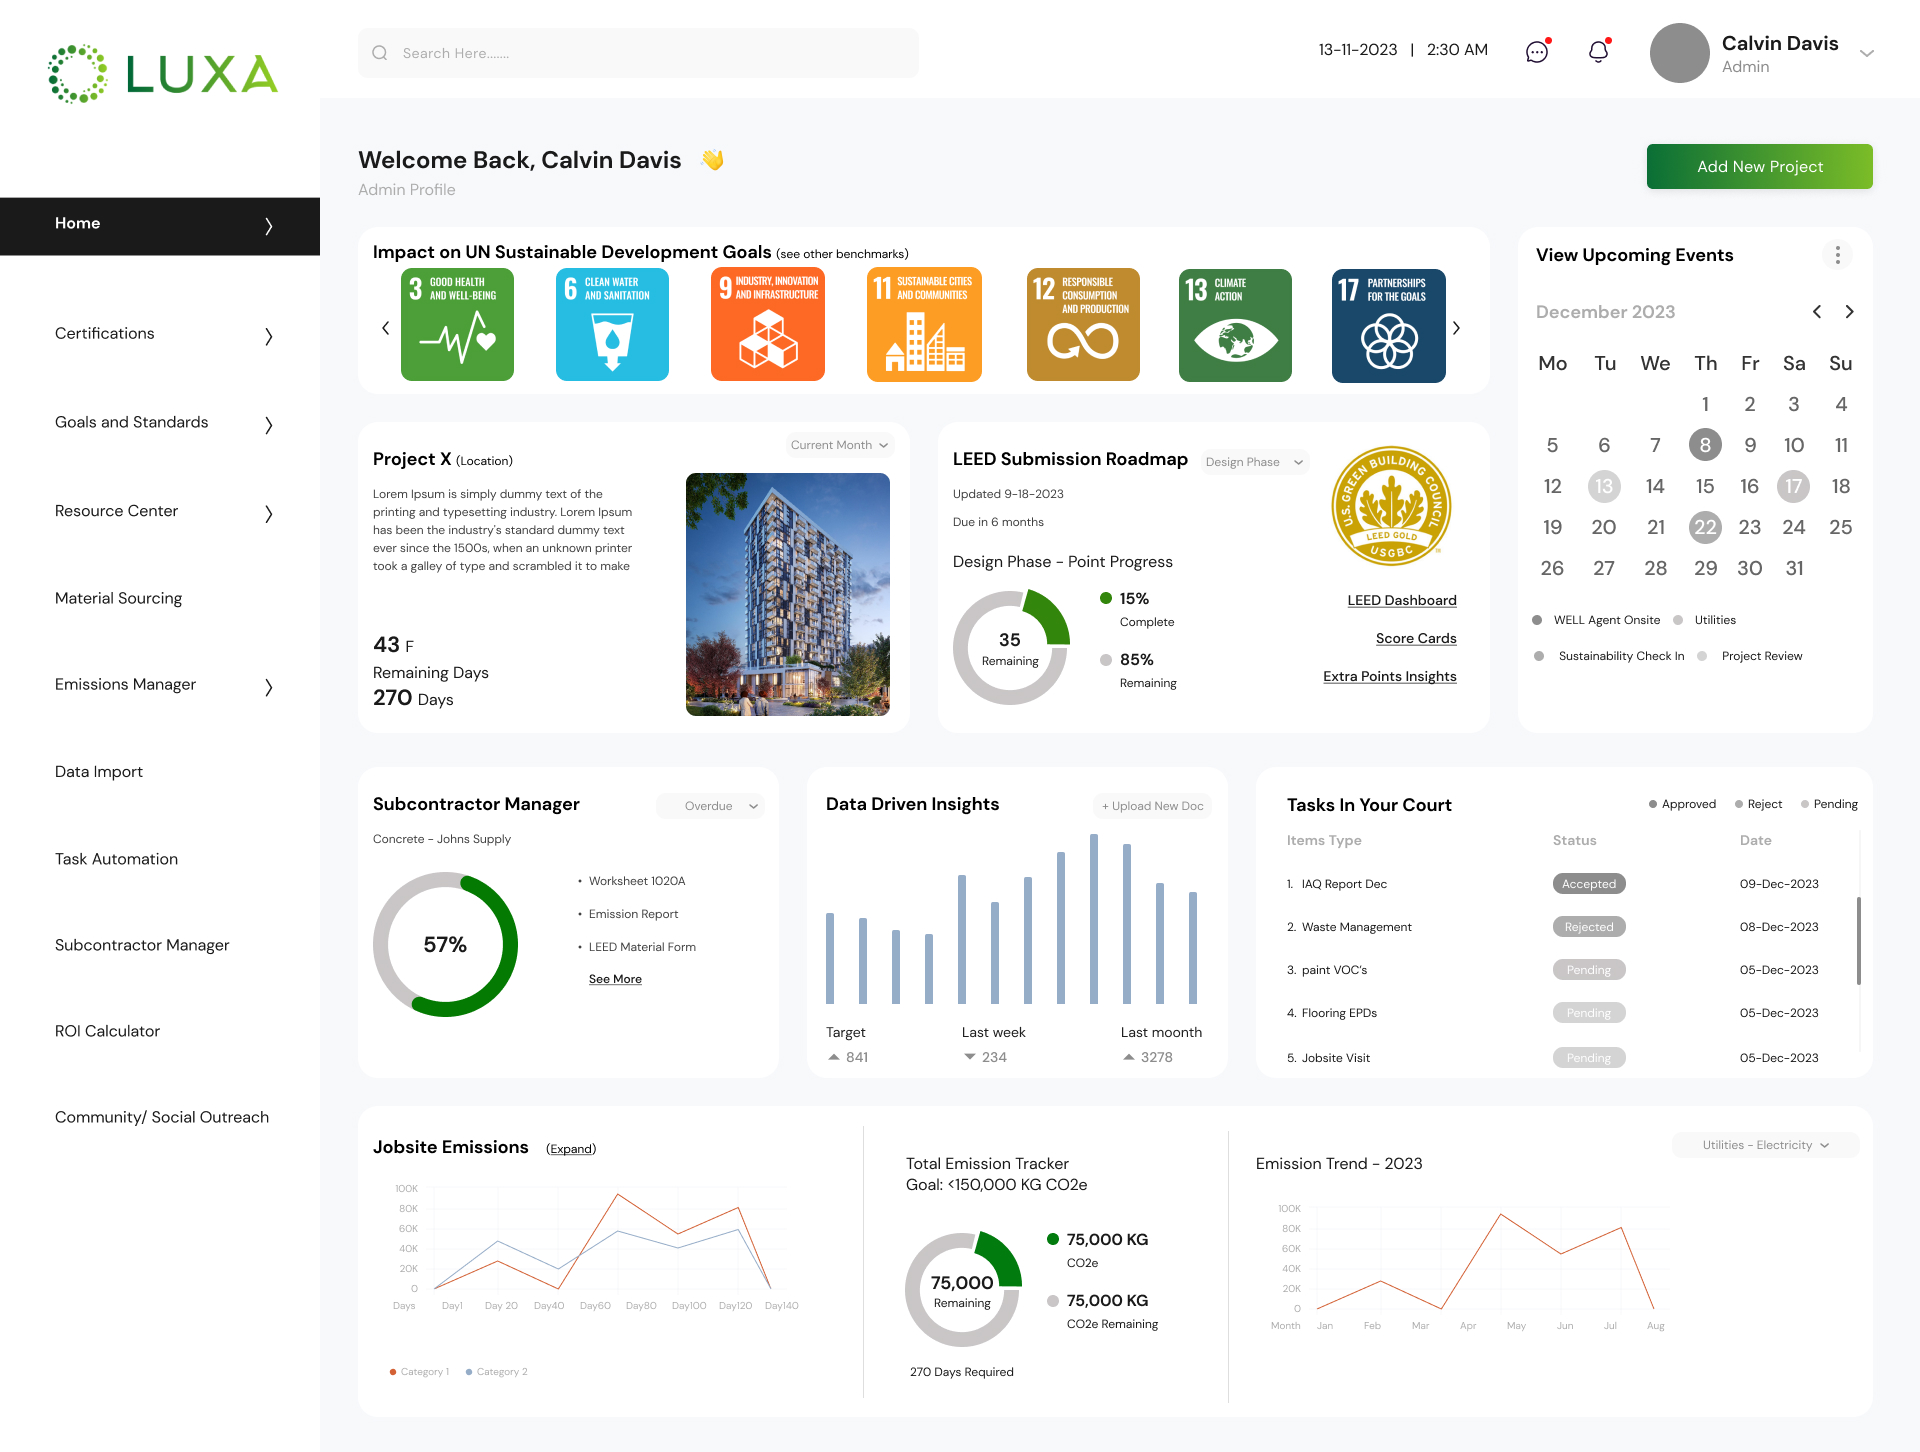
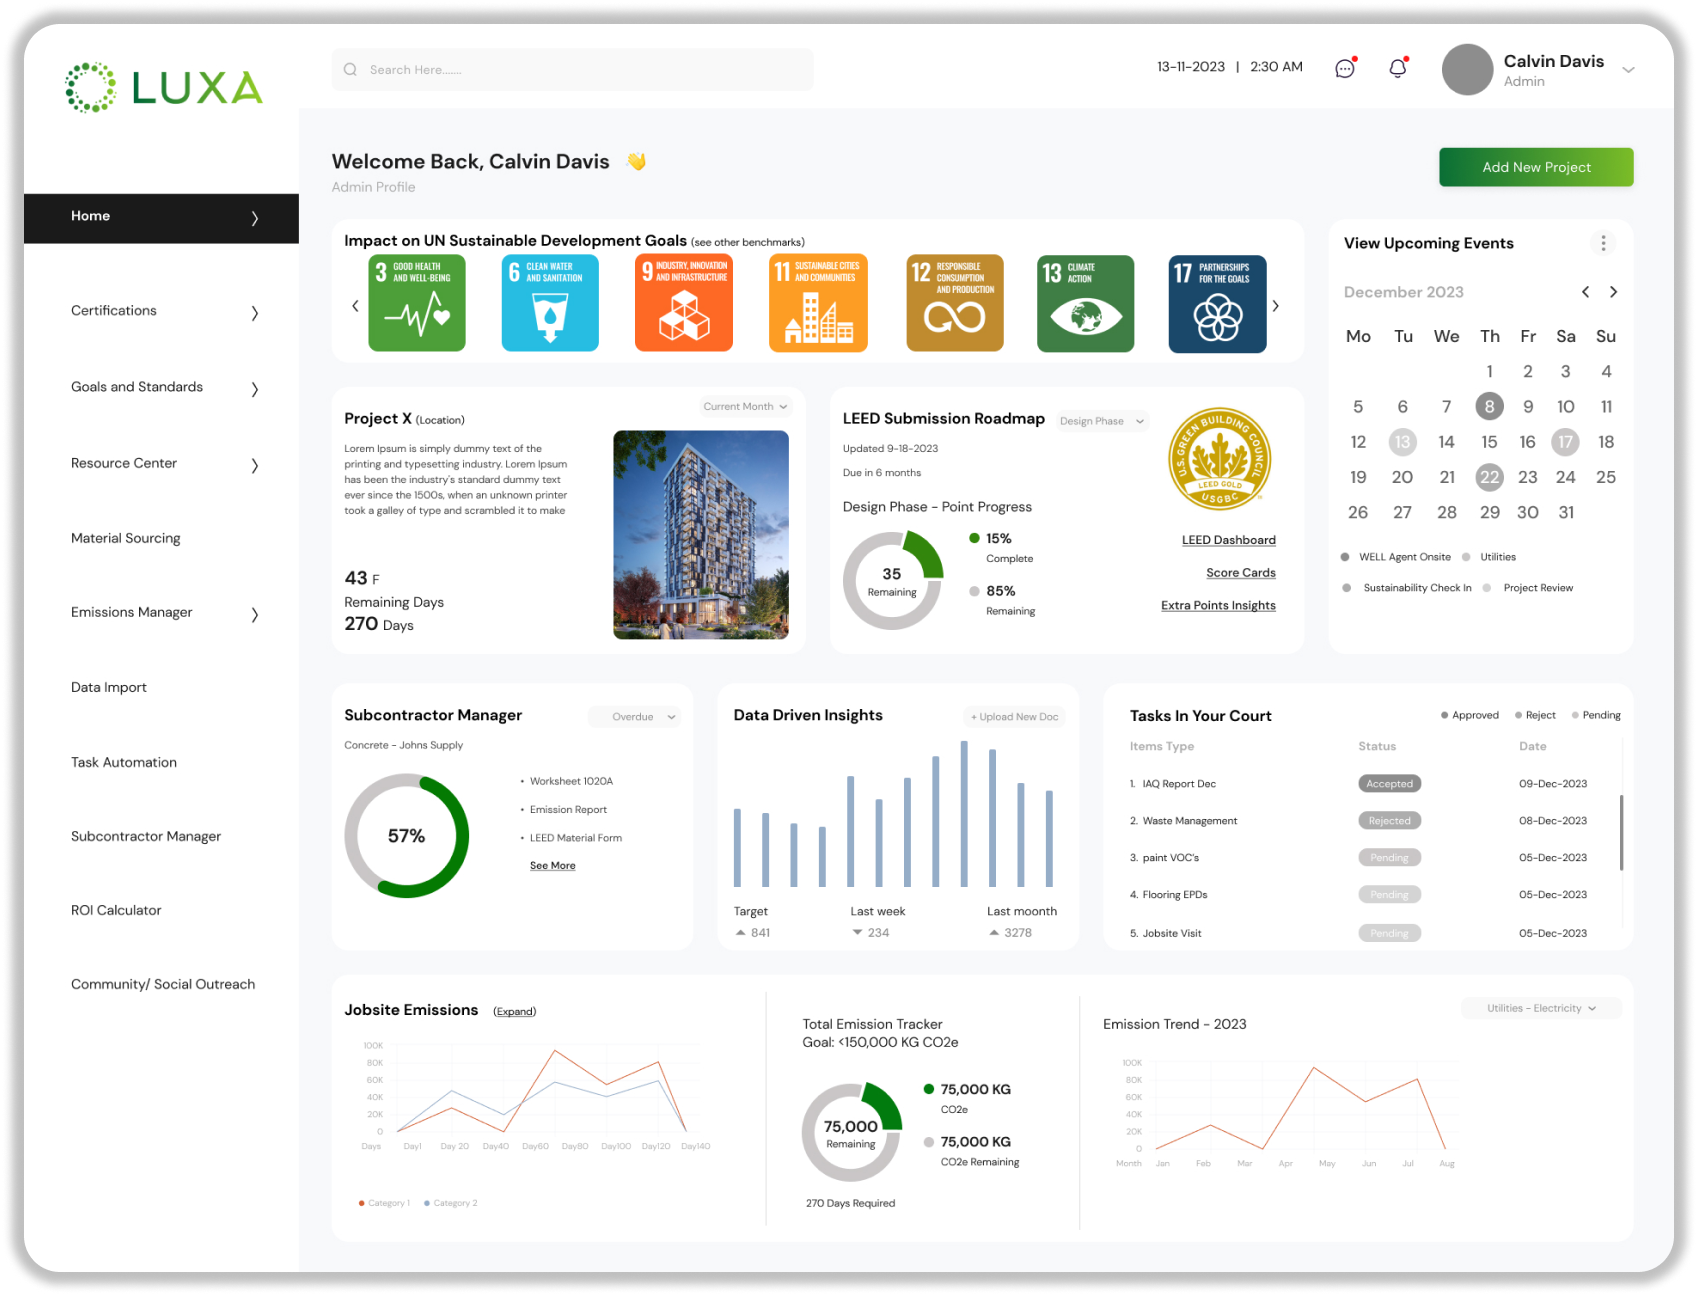
wroking on responsvie

diff --git a/components/FrameComponent4.tsx b/components/FrameComponent4.tsx
@@ -2,6 +2,8 @@ import type { NextPage } from "next";
 import styles from "./FrameComponent4.module.css";
 import { useState } from "react";
 import Image from 'next/image'
+import Link from "next/link";
+
 
 const FrameComponent4: NextPage = () => {
    const [arrowActive, setarrowActive] = useState(false)
@@ -55,24 +57,24 @@ const FrameComponent4: NextPage = () => {
         </div> */}
       {/* </div> */}
       <div className={styles.rectangleContainer} onMouseLeave={()=>setarrowActive1(false)} onMouseEnter={()=>setarrowActive1(true)}>
-      
+      <Link href="/resources/retrofit-and-renovation">
         <Image
-          className={styles.rectangleIcon}
-          loading="eager"
-          alt=""
-          src="/rectangle-631@2x.png"
-          width={240}
-          height={332}
-        />
+            className={styles.rectangleIcon}
+            loading="eager"
+            alt=""
+            src="/rectangle-631@2x.png"
+            width={240}
+            height={332}
+          />
+      </Link>
+        
         <div className={styles.retrofits}>Retrofits
         {arrowActive1 ===true && (
-          <Image
+          <img
           className={styles.hoverarrow}
           loading="eager"
           alt=""
           src="/Arrowconttraction.png"
-          width={36}
-          height={0}
         />
         )}
         </div>
@@ -88,17 +90,16 @@ const FrameComponent4: NextPage = () => {
         />
         <div className={styles.retrofits}>Renovations 
         {arrowActive2===true && (
-           <Image
+           <img
            className={styles.hoverarrow}
            loading="eager"
            alt=""
            src="/Arrowconttraction.png"
-           width={36}
-           height={0}
          />
         )}
        </div>
       </div>
+
       <div className={styles.rectangleParent1} onMouseLeave={()=>setarrowActive3(false)} onMouseEnter={()=>setarrowActive3(true)}>
         <Image
           className={styles.frameChild2}
@@ -110,18 +111,18 @@ const FrameComponent4: NextPage = () => {
         />
         <div className={styles.retrofits}>Infrastructure
         {arrowActive3 === true && (
-          <Image
+          <img
           className={styles.hoverarrow}
           loading="eager"
           alt=""
           src="/Arrowconttraction.png"
-          width={36}
-          height={0}
         />
         )}
         </div>
         
       </div>
+
+     
     </div>
   );
 };

diff --git a/components/homepageContainer.module.css b/components/homepageContainer.module.css
@@ -168,6 +168,10 @@ transition: all 0.5s ease-out;
   box-sizing: border-box;
   min-width: 696px;
 }
+.dashboardImage{
+  width: 825px;
+  Height:624px;
+}
 .dashboardDesignmainDashboard {
   height: 100%;
   flex: 1;
@@ -191,10 +195,10 @@ transition: all 0.5s ease-out;
   display: flex;
   align-items: center;
   justify-content: center;
-  box-shadow: 0px 0px 5.300000190734863px 6px #00000040;
-  background-image: url('/dashboard-designmain-dashboard-1@2x.png');
+  /* box-shadow: 0px 0px 5.300000190734863px 6px #00000040; */
+  /* background-image: url('/dashboard-designmain-dashboard-1@2x.png');
   background-repeat:no-repeat;
-  background-size: contain;
+  background-size: contain; */
   background-color: #FFFFFF;
 }
 .frameParent,
@@ -206,7 +210,7 @@ transition: all 0.5s ease-out;
 }
 .frameParent {
   flex: 1;
-  align-items: flex-end;
+  /* align-items: flex-end; */
   gap: var(--gap-6xs);
 }
 .text {
@@ -226,9 +230,12 @@ transition: all 0.5s ease-out;
     width: 100%;
   }
   .wrapperDashboardDesignmainD{
-    height: 600px;
-    width:570px;
-    padding-right:60px;
+    height: auto; /* Adjust height as needed */
+    width: 100%;
+  }
+  .dashboardImage{
+    width: 525px;
+    Height:424px;
   }
 }
 @media screen and (max-width: 1200px) {
@@ -251,6 +258,13 @@ transition: all 0.5s ease-out;
   .dashboardDesignmainDashboard {
     min-width: 100%;
     min-height: 100%;
+  }
+}
+@media screen and (max-width: 600px) {
+  .wrapperDashboardDesignmainD {
+      /* Adjust the height and width for small screens */
+      width: 100%; /* Make the image fill the width of its container */
+      height: 100%; /* Allow the height to adjust proportionally based on the width */
   }
 }
 @media screen and (max-width: 450px) {

diff --git a/components/LineSection.module.css b/components/LineSection.module.css
@@ -784,6 +784,7 @@ line-height: normal;
   max-width: 100%;
 }
 .rectangle {
+  flex: 1; /* Grow to fill available space */
   align-self: stretch;
   font-size: var(--font-size-lg);
 }
@@ -892,7 +893,15 @@ line-height: normal;
   color: var(--color-black);
   font-family: var(--font-clash-display);
 }
+@media screen and (max-width: 1440px) {
+  .atGcsWe{
+    width: 70%;
+  }
+}
 @media screen and (max-width: 1200px) {
+  .atGcsWe{
+    width: 70%;
+  }
   .fullNameInput {
     padding-right: var(--padding-4xl);
     box-sizing: border-box;
@@ -909,8 +918,16 @@ line-height: normal;
   .lineSection {
     gap: var(--gap-27xl);
   }
+  .rectangle{
+  align-self: none;
+    
+  }
 }
+
 @media screen and (max-width: 825px) {
+  .atGcsWe{
+    width: 70%;
+  }
   .transformingSustainabilityEf {
     font-size: var(--font-size-17xl);
     line-height: 40px;
@@ -937,6 +954,9 @@ line-height: normal;
   }
 }
 @media screen and (max-width: 450px) {
+  .atGcsWe{
+    width: 70%;
+  }
   .transformingSustainabilityEf {
     font-size: var(--font-size-8xl);
     line-height: 30px;

diff --git a/pages/HomeLandingPage.module.css b/pages/HomeLandingPage.module.css
@@ -311,6 +311,21 @@
   overflow: hidden;
   letter-spacing: normal;
 }
+@media screen and (max-width: 1440px) {
+  .homeLandingPageInner {
+    width: 100%;
+  }
+  .maskGroupParent {
+    padding-left: var(--padding-87xl);
+    padding-top: var(--padding-xl);
+    padding-bottom: 62px;
+    box-sizing: border-box;
+  }
+  .message {
+    width: 100%;
+    margin-left: 30px;
+  }
+}
 @media screen and (max-width: 1200px) {
   .homeLandingPageInner {
     width: 100%;
@@ -322,11 +337,14 @@
     box-sizing: border-box;
   }
   .message {
-    padding-right: var(--padding-2xl);
-    box-sizing: border-box;
+    width: 100%;
+    margin-left: 30px;
   }
 }
 @media screen and (max-width: 825px) {
+  .message{
+    width: 100%;
+  }
   .homeLandingPageInner {
     width: 100%;
   }
@@ -380,6 +398,9 @@
   }
 }
 @media screen and (max-width: 450px) {
+  .message{
+    width: 100%;
+  }
   .homeLandingPageInner {
     width: 100%;
   }

diff --git a/pages/index.tsx b/pages/index.tsx
@@ -120,7 +120,7 @@ const HomeLandingPage: NextPage = () => {
             delay: 0.1,
             ease: [0, 0.71, 0.2, 1.01]
           }}> 
-              <section className={`${styles.message} ${isScrolled ? styles.scrolled : ''}`}>
+            <section className={`${styles.message} ${isScrolled ? styles.scrolled : ''}`}>
 
               <div className={styles.polygonParent}>
                       <h1 className={styles.theWorlds1Container}>
@@ -154,7 +154,10 @@ const HomeLandingPage: NextPage = () => {
             delay: 0.8,
             ease: [0, 0.71, 0.2, 1.01]
           }}>
-           <LineSection />
+                 <section className={`${styles.message} ${isScrolled ? styles.scrolled : ''}`}>
+                 <LineSection />
+
+                 </section>
       </motion.div>
       )}
       {isScrolledthird && (

diff --git a/components/homepageContainer.tsx b/components/homepageContainer.tsx
@@ -63,13 +63,13 @@ const homepageContainer: NextPage = () => {
             duration: 2,
             x: { duration: 1 }
           }}>
-        <div className={styles.wrapperDashboardDesignmainD}>
-            {/* <img
-              className={styles.dashboardDesignmainDashboard}
+        <div className={styles.dashboardimageContainer}>
+            <img
+              className={styles.dashboardImage}
               loading="eager"
               alt=""
               src="/dashboard-designmain-dashboard-1@2x.png"
-            /> */}
+            />
         </div>
         </motion.div>
 

diff --git a/components/SecondAccordion.module.css b/components/SecondAccordion.module.css
@@ -80,7 +80,7 @@
 /* Styles for small devices (phones) */
 @media only screen and (max-width: 600px) {
   .accordion {
-    width: 80%;
+    width: 50%;
   }
 }
 
@@ -88,7 +88,7 @@
 @media only screen and (min-width: 601px) and (max-width: 1024px) {
   /* Your responsive CSS styles for medium devices */
   .accordion {
-    width: 80%;
+    width: 50%;
   }
 }
 

diff --git a/components/Text2.module.css b/components/Text2.module.css
@@ -409,12 +409,18 @@ font-weight: bold;
   color: var(--color-darkslategray);
   font-family: var(--font-dm-sans);
 }
-@media(max-width: 1400) {
+@media screen and (max-width: 1440px) {
   .rectangleParent {
     width: 1352px;
   }
   .subMenu{
     right: 120px;
+  }
+  .dropdownMenu{
+    top:100px;
+  }
+  .dropdownMenu2{
+    top:100px;
   }
 }
 
